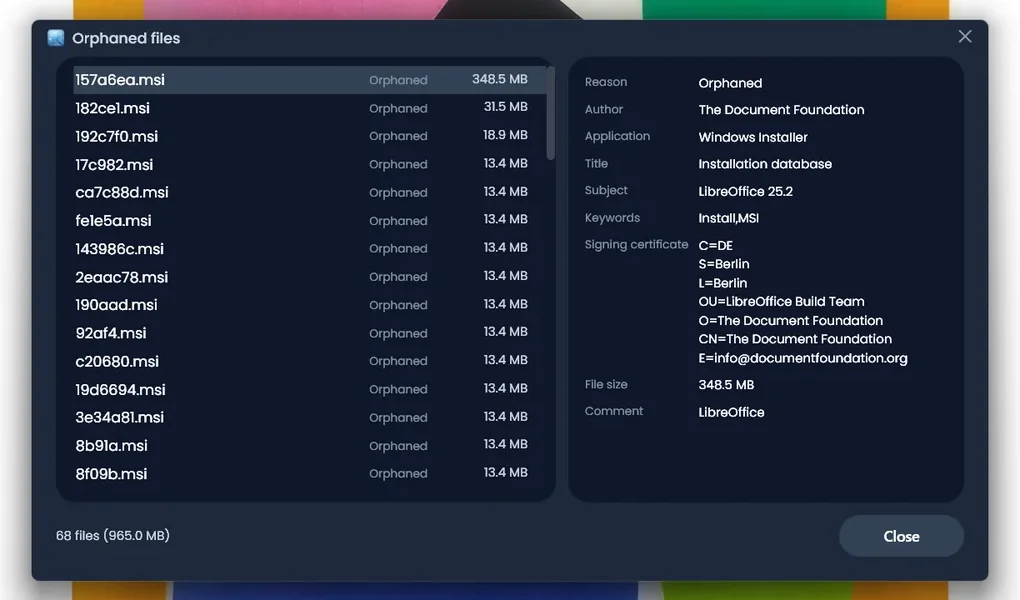
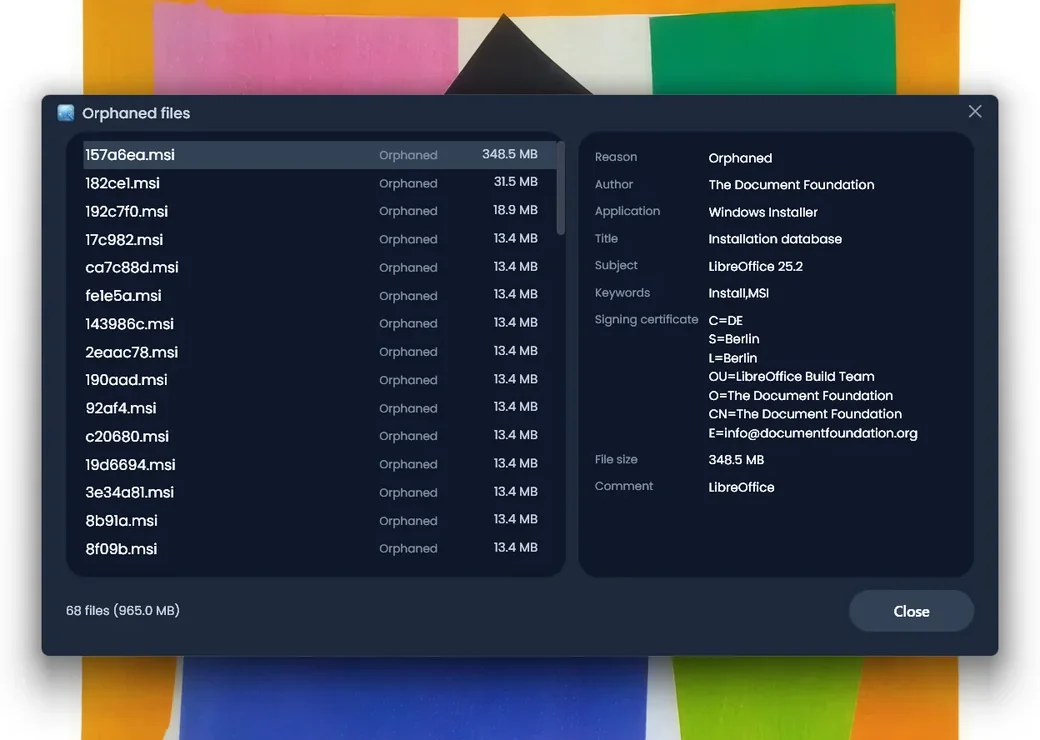
docs: tighten README and re-crop screenshots to a shared frame
- Swap hero image for the v1.6.0 success-overlay screenshot
- Soften the "how much space" line so it covers the small-haul case
- Use a shared 1040x740 crop on all screenshot tiles so the smaller
  splash and main windows render proportionally smaller than the
  detail windows when displayed at the same width

diff --git a/README.md b/README.md
@@ -8,11 +8,11 @@
 
 **A modern, open-source replacement for [PatchCleaner](https://www.homedev.com.au/free/patchcleaner). Safely clean up `C:\Windows\Installer`, the hidden Windows folder that quietly eats your disk space.**
 
-![Screenshot of InstallerClean](docs/InstallerClean-done.png)
+![Screenshot of InstallerClean after a successful clean-up: 965 MB cleared, 68 files moved](docs/screenshots/10-moved-done-success.webp)
 
 - **What:** Finds and removes unneeded files from `C:\Windows\Installer`, the hidden folder Windows never cleans up.
-- **How much space:** Depends on your software. People report 20-50 GB; with Adobe Acrobat it can pass 100 GB.
-- **Is it safe:** Yes. Only removes files Windows itself says it no longer needs. Delete sends to Recycle Bin. Move lets you keep them somewhere safe.
+- **How much space:** Depends on your software. On my machine it was just shy of 1 GB. People have reported 20-50 GB; with Adobe Acrobat it can pass 100 GB. It could be nothing at all. The point is that it's quick and costs nothing; whatever can be removed will be gone.
+- **Is it safe:** Yes. Only removes files Windows itself says it no longer needs. Delete sends to the Recycle Bin. Move lets you keep them somewhere safe.
 - **Get it:** [Download the latest release](../../releases/latest), run it, done.
 
 ---
@@ -65,31 +65,31 @@ No telemetry. No network activity. The About window has a Check for updates link
 
 <br>
 
-<img src="docs/screenshots/03-scan.webp" alt="Splash screen showing the scan in progress, having found 68 files to clean up" width="600">
+<img src="docs/screenshots/03-scan.webp" alt="Splash screen showing the scan in progress, having found 68 files to clean up" width="900">
 
 *Initial scan. This is very quick.*
 
-<img src="docs/screenshots/04-main-window.webp" alt="Main window showing 114 files still used and 68 files to clean up" width="820">
+<img src="docs/screenshots/04-main-window.webp" alt="Main window showing 114 files still used and 68 files to clean up" width="900">
 
 *Results: how much is in use, how much is removable.*
 
-<img src="docs/screenshots/05-keep-details.webp" alt="Registered files window listing installed products and their installer-database metadata" width="820">
+<img src="docs/screenshots/05-keep-details.webp" alt="Registered files window listing installed products and their installer-database metadata" width="900">
 
 *The files still in use, with metadata read from the installer database.*
 
-<img src="docs/screenshots/06-delete-details.webp" alt="Orphaned files window listing removable .msi files with reasons" width="820">
+<img src="docs/screenshots/06-delete-details.webp" alt="Orphaned files window listing removable .msi files with reasons" width="900">
 
 *The files no longer needed.*
 
-<img src="docs/screenshots/08-delete.webp" alt="Delete confirmation dialog showing 68 files (965 MB) will go to the Recycle Bin" width="820">
+<img src="docs/screenshots/08-delete.webp" alt="Delete confirmation dialog showing 68 files (965 MB) will go to the Recycle Bin" width="900">
 
 *Confirmation before either action. Delete sends to the Recycle Bin; Move puts the files somewhere of your choice.*
 
-<img src="docs/screenshots/10-moved-done-success.webp" alt="Success overlay showing 965 MB cleared after a move operation" width="820">
+<img src="docs/screenshots/10-moved-done-success.webp" alt="Success overlay showing 965 MB cleared after a move operation" width="900">
 
 *After a successful Move.*
 
-<img src="docs/screenshots/12-all-clear.webp" alt="All-clear overlay shown when nothing is removable on a subsequent scan" width="820">
+<img src="docs/screenshots/12-all-clear.webp" alt="All-clear overlay shown when nothing is removable on a subsequent scan" width="900">
 
 *Nothing left to clean.*
 
